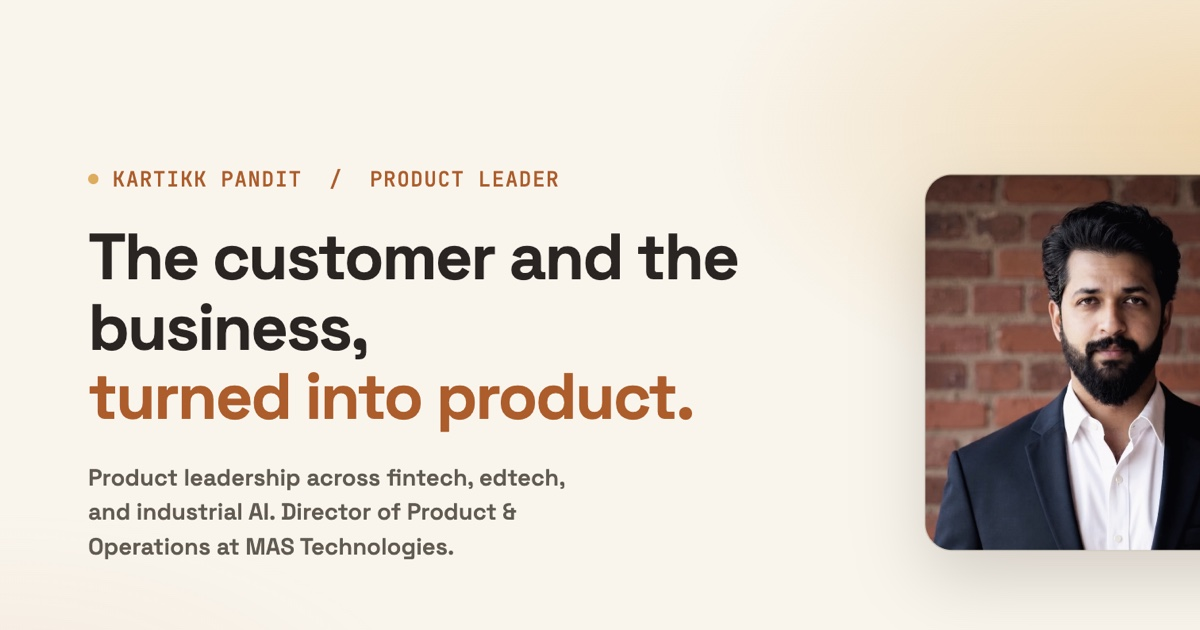
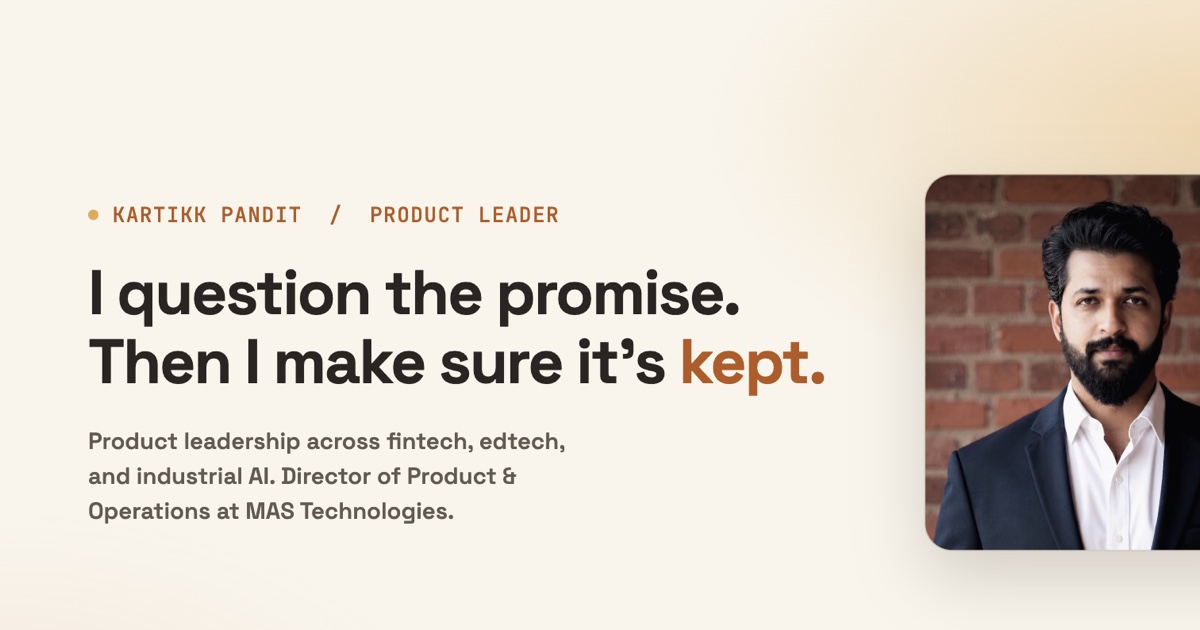
Update

Changed region(s): [[0.0617, 0.2714, 0.7092, 0.9048], [0.3083, 0.2714, 0.4625, 0.3619]]

diff --git a/index.html b/index.html
@@ -3,8 +3,8 @@
 <head>
 <meta charset="UTF-8">
 <meta name="viewport" content="width=device-width, initial-scale=1.0">
-<title>Kartikk Pandit - Product Leader | Customer &amp; business, turned into product</title>
-<meta name="description" content="Kartikk Pandit is a product leader who makes the customer and the business impossible to ignore, and aligns teams to one direction. Director of Product & Operations at MAS Technologies, after eight years across fintech, edtech, and B2B SaaS.">
+<title>Kartikk Pandit - Product Leader | The right promise, kept</title>
+<meta name="description" content="Kartikk Pandit is a product leader who questions whether a promise is worth making, then orchestrates product, operations, and software to make sure users actually get it. Director of Product & Operations at MAS Technologies, after eight years across fintech, edtech, and B2B SaaS.">
 
 <link rel="icon" type="image/svg+xml" href="favicon.svg">
 <link rel="canonical" href="https://kartikkpandit19.github.io/">
@@ -12,7 +12,7 @@
 <meta property="og:type" content="website">
 <meta property="og:url" content="https://kartikkpandit19.github.io/">
 <meta property="og:title" content="Kartikk Pandit - Product Leader">
-<meta property="og:description" content="I make the customer and the business impossible to ignore, and turn that into products the team rallies behind. Proven in fintech, now leading product for industrial AI.">
+<meta property="og:description" content="I question whether a promise is worth making, then make sure users actually get it. Product leader across fintech, edtech, and industrial AI.">
 <meta property="og:image" content="https://kartikkpandit19.github.io/og-image.jpg">
 <meta property="og:image:width" content="1200">
 <meta property="og:image:height" content="630">
@@ -94,12 +94,12 @@
     <div class="hero-text">
       <p class="hero-eyebrow"><span class="dot-live" aria-hidden="true"></span>Kartikk Pandit &nbsp;/&nbsp; Director, Product &amp; Operations</p>
       <h1 class="hero-title">
-        I turn customer and business reality into <span class="accent">products the team rallies behind.</span>
+        I question whether a promise is <span class="accent">worth making.</span> Then I make sure it's <span class="accent">kept.</span>
       </h1>
       <p class="hero-sub">
-        A product leader who makes the customer and the business impossible to ignore.
-        Director of Product &amp; Operations at MAS Technologies, after eight years across
-        fintech, edtech, and B2B SaaS.
+        I start with the business, ask whether users would pay for what we promise, then
+        orchestrate product, operations, and software so they actually get it. Currently at
+        MAS Technologies, after eight years across fintech, edtech, and B2B SaaS.
       </p>
       <div class="hero-cta">
         <a class="btn primary" href="#work">See the work
